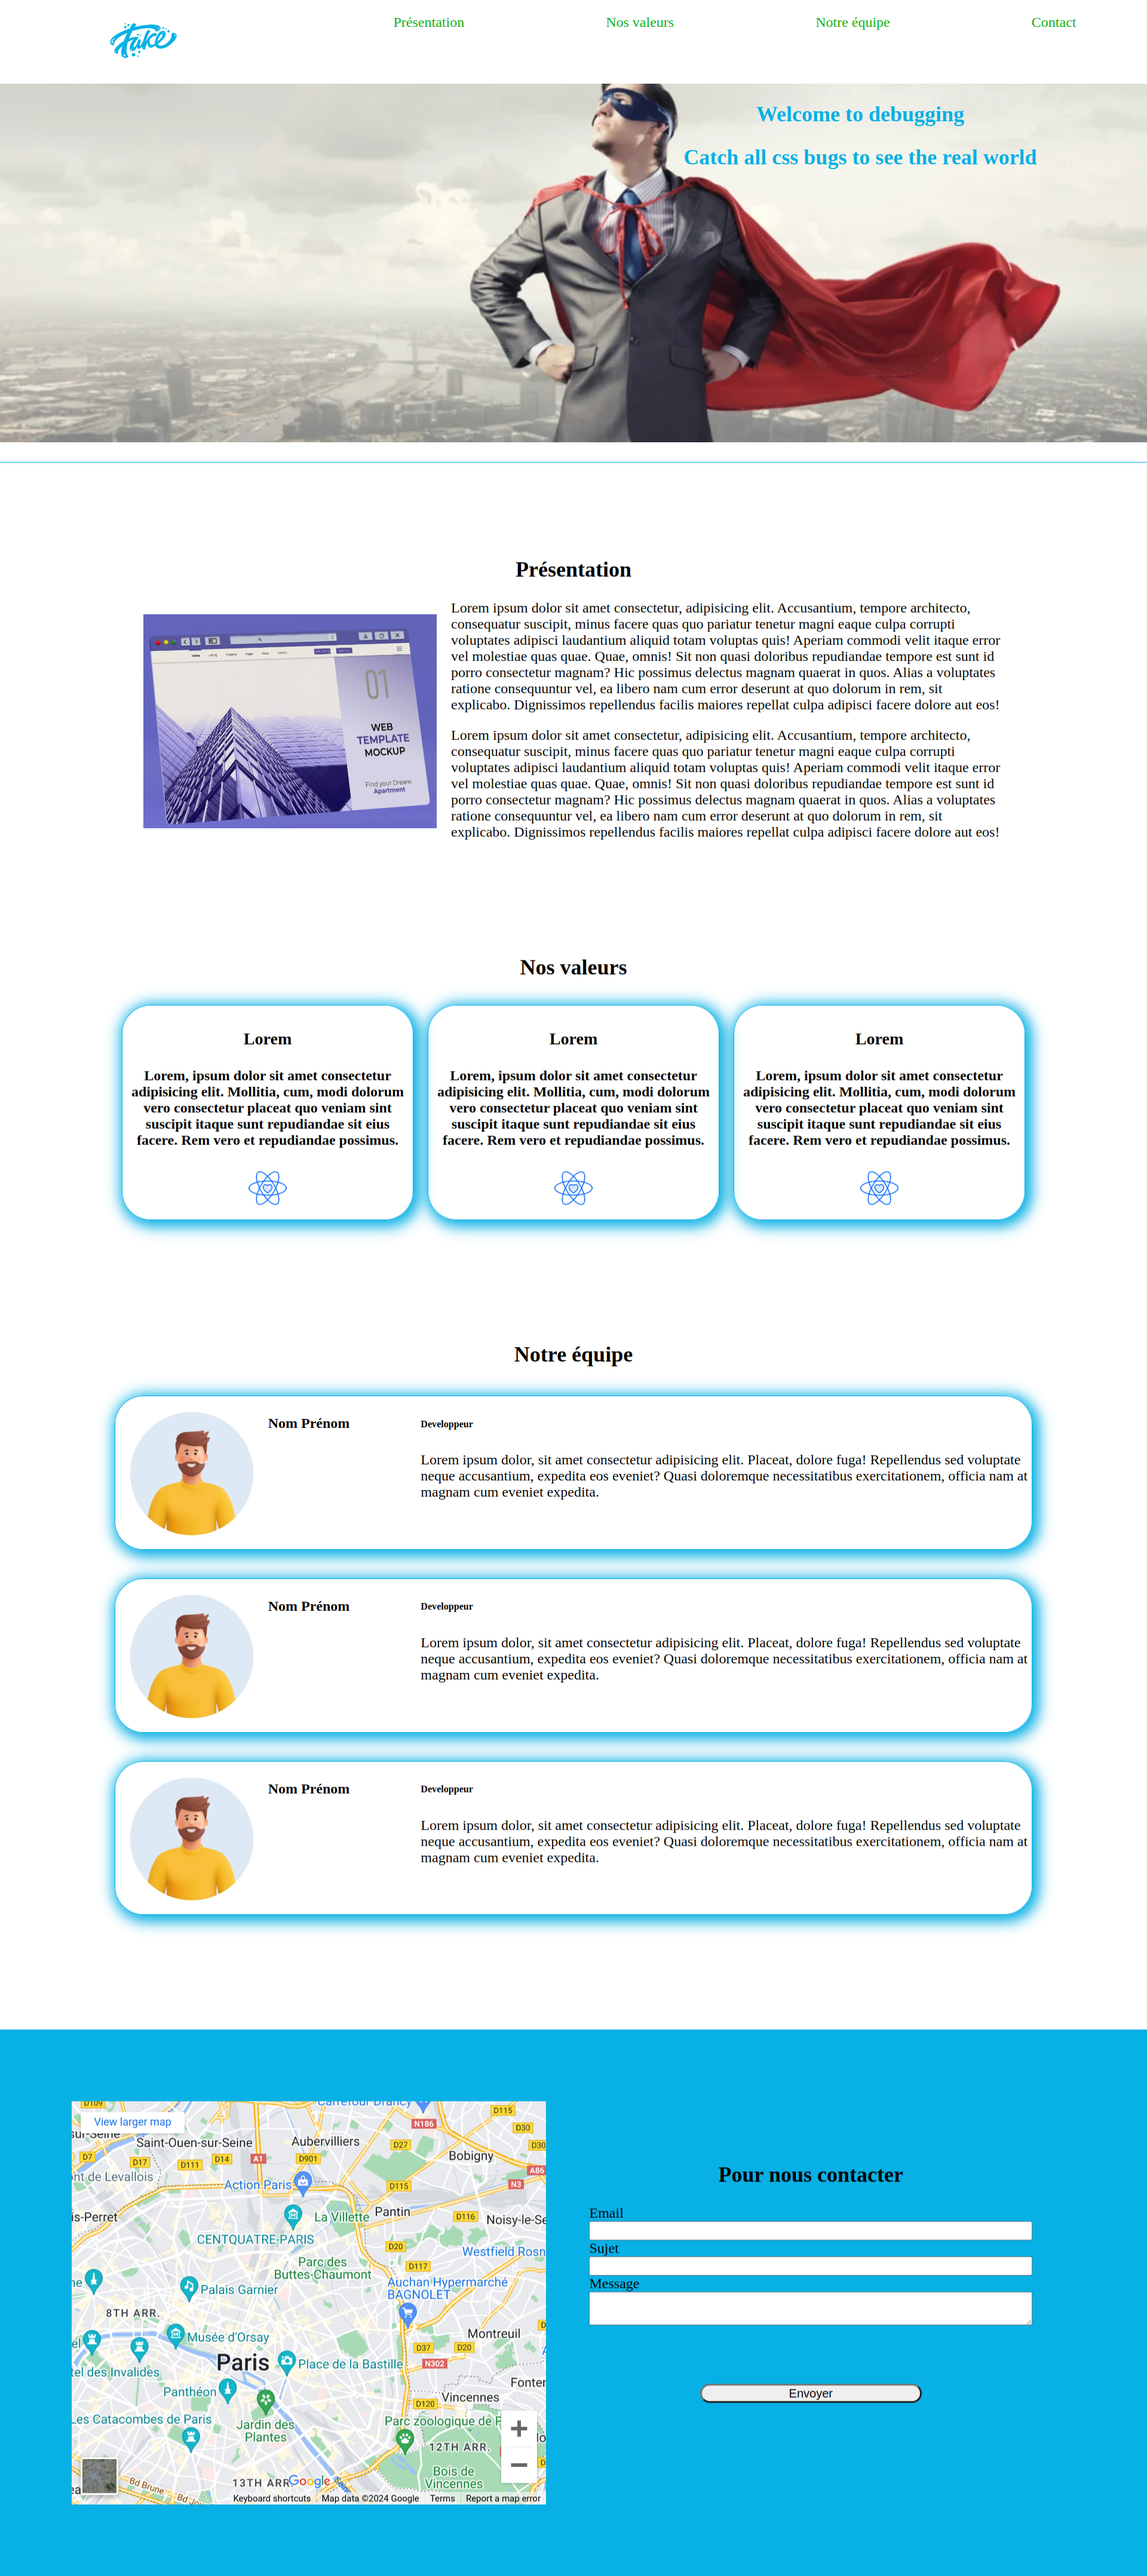
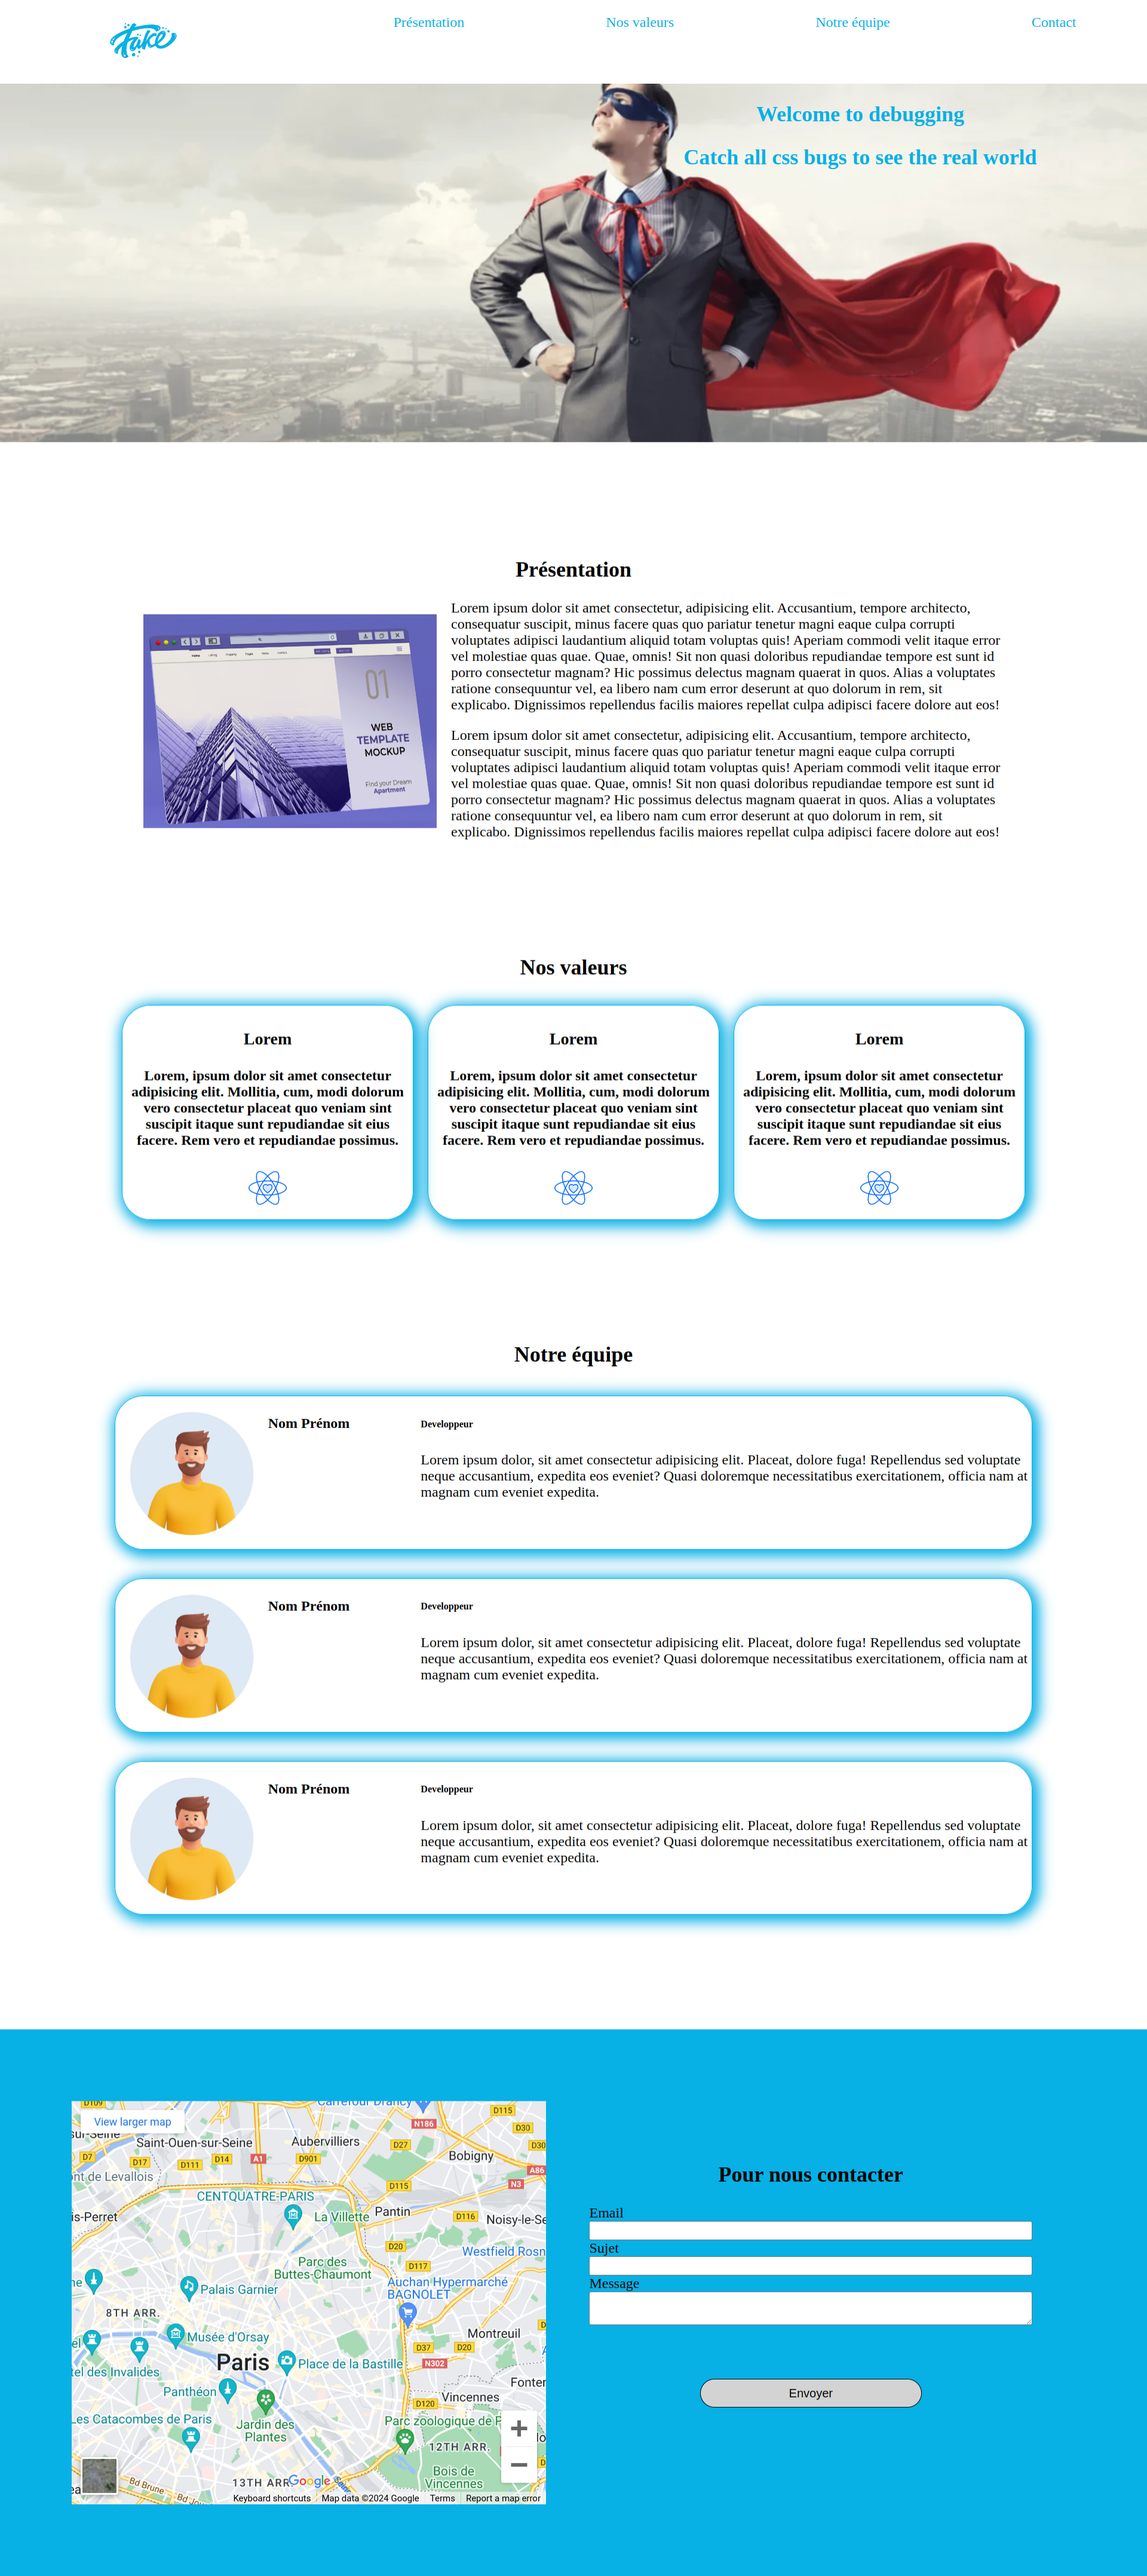
Mise en place des bugs de css et du readme avec la liste des erreurs

Changed region(s): [[0.5938, 0.9016, 0.8125, 0.9327], [0.1875, 0.8394, 0.2812, 0.8705], [0.375, 0.6218, 0.4062, 0.6529]]

diff --git a/solution.css b/solution.css
@@ -5,7 +5,7 @@
 
 body {
   margin: 0;
-  padding: 15px;
+  padding: 0;
 }
 
 h2 {
@@ -16,7 +16,7 @@ h2 {
   text-align: center;
   border-radius: var(--radius);
   background-color: lightgrey;
-  border: 10px solid black;
+  border: 1px solid black;
   height: 2rem;
   cursor: pointer;
   transition: 1s;
@@ -29,7 +29,7 @@ h2 {
 }
 
 a {
-  text-decoration: overline;
+  text-decoration: none;
   color: black;
 }
 
@@ -40,7 +40,7 @@ a {
   a {
     width: 25%;
     text-align: center;
-    color: #07b010;
+    color: var(--color);
 
     .logo {
       width: 35%;
@@ -53,19 +53,19 @@ a {
 
   ul {
     display: flex;
+    justify-content: space-around;
 
     li {
       list-style-type: none;
-      margin: 0 5rem;
     }
   }
 }
 
 #hero {
-  background-image: url("asset/super_hero.webp");
+  background-image: url("assets/super_hero.webp");
   background-position: center;
   background-repeat: no-repeat;
-  background-size: contain;
+  background-size: cover;
   height: 25rem;
   display: flex;
   justify-content: flex-end;
@@ -82,15 +82,14 @@ section:not(#hero) {
 }
 
 footer {
-  background-color: var(--colors);
+  background-color: var(--color);
   flex-direction: row;
-  flex-direction: row-reverse;
   display: flex;
   padding: 5rem;
 
   form {
     display: flex;
-    flex-direction: column-reverse;
+    flex-direction: column;
     padding: 3rem;
     width: 50%;
 
@@ -110,7 +109,7 @@ footer {
   }
 }
 
-section.presentation {
+section#presentation {
   img {
     width: 33%;
     float: left;
@@ -118,11 +117,11 @@ section.presentation {
   }
 
   div {
-    margin: 0 1rem;
+    padding: 0 1rem;
   }
 }
 
-section#values {
+section#values > div {
   display: flex;
 
   div {
@@ -152,14 +151,14 @@ section#team {
 
     img {
       width: 15%;
-      flex: 1px;
+      flex: 1;
       border-radius: 5rem;
     }
     h4 {
-      flex: 1px;
+      flex: 1;
     }
     div {
-      flex: 4px;
+      flex: 4;
     }
   }
 }

diff --git a/readme.md b/readme.md
@@ -1,0 +1,20 @@
+### Welcome in the Debug CSS in the navigator workshop
+
+You will find the goal (one solution) on the link on the bottom of the page. Once open, you can easily close the tab, as a cookie banner (no worries about that);
+
+# The solve the exercice, you should use only the source of the navigator or the element inspector
+
+Warning: don't refresh your work, cause you will lose all your work !!!
+
+# A couple of mistake were made
+
+Just find it and do your best. At the end, feel free to improve the design
+
+- Be aware of the general disposition (\*, body, html);
+- Check, the style of the global element as h2, .btn, a
+- header : choose the right disposition on flex, this should avoid the use of inappropriate margin or padding to correct it
+- hero : No pîcture, could be the path ??? and some unkind choice in disposition
+- presentation : warning class are not id...
+- values : observe your html, is the selector correct to target the children ?
+- team : check for unity (px, rem, % and so on). Which one is just wrong to match the property flex
+- footer : naming variable is always tricky and a source of mistakes. But all is on the wrong order !!!
